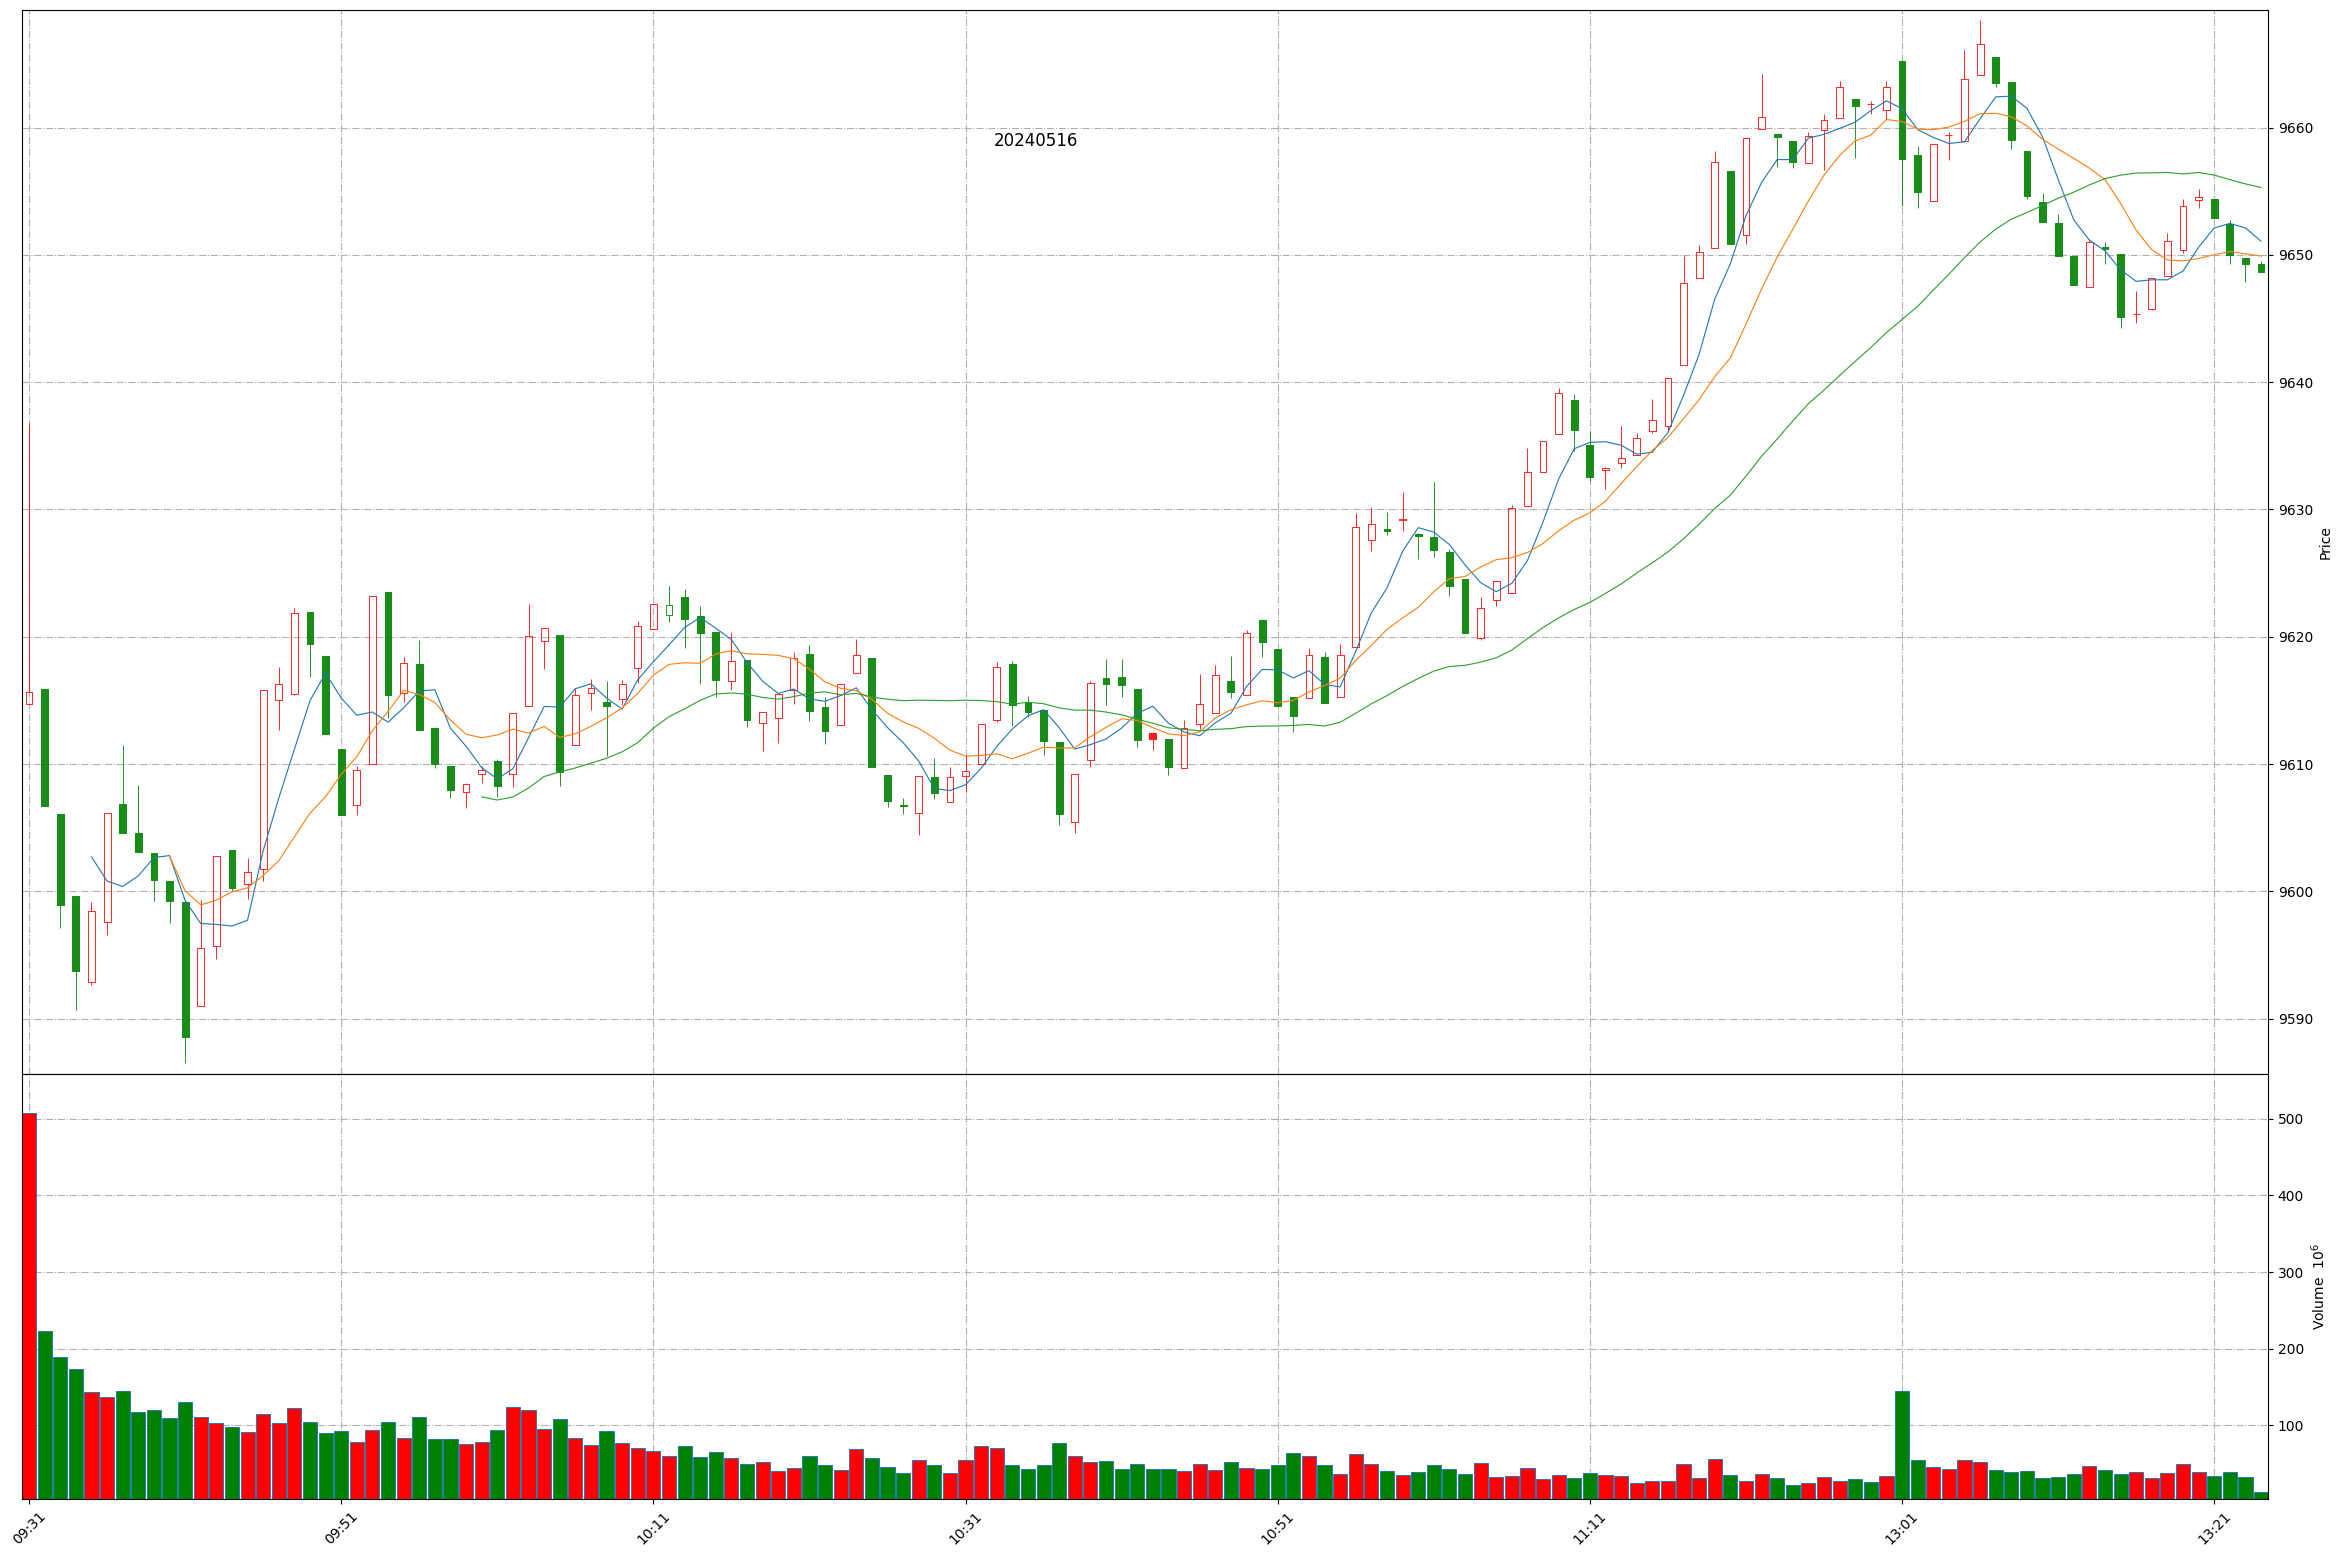
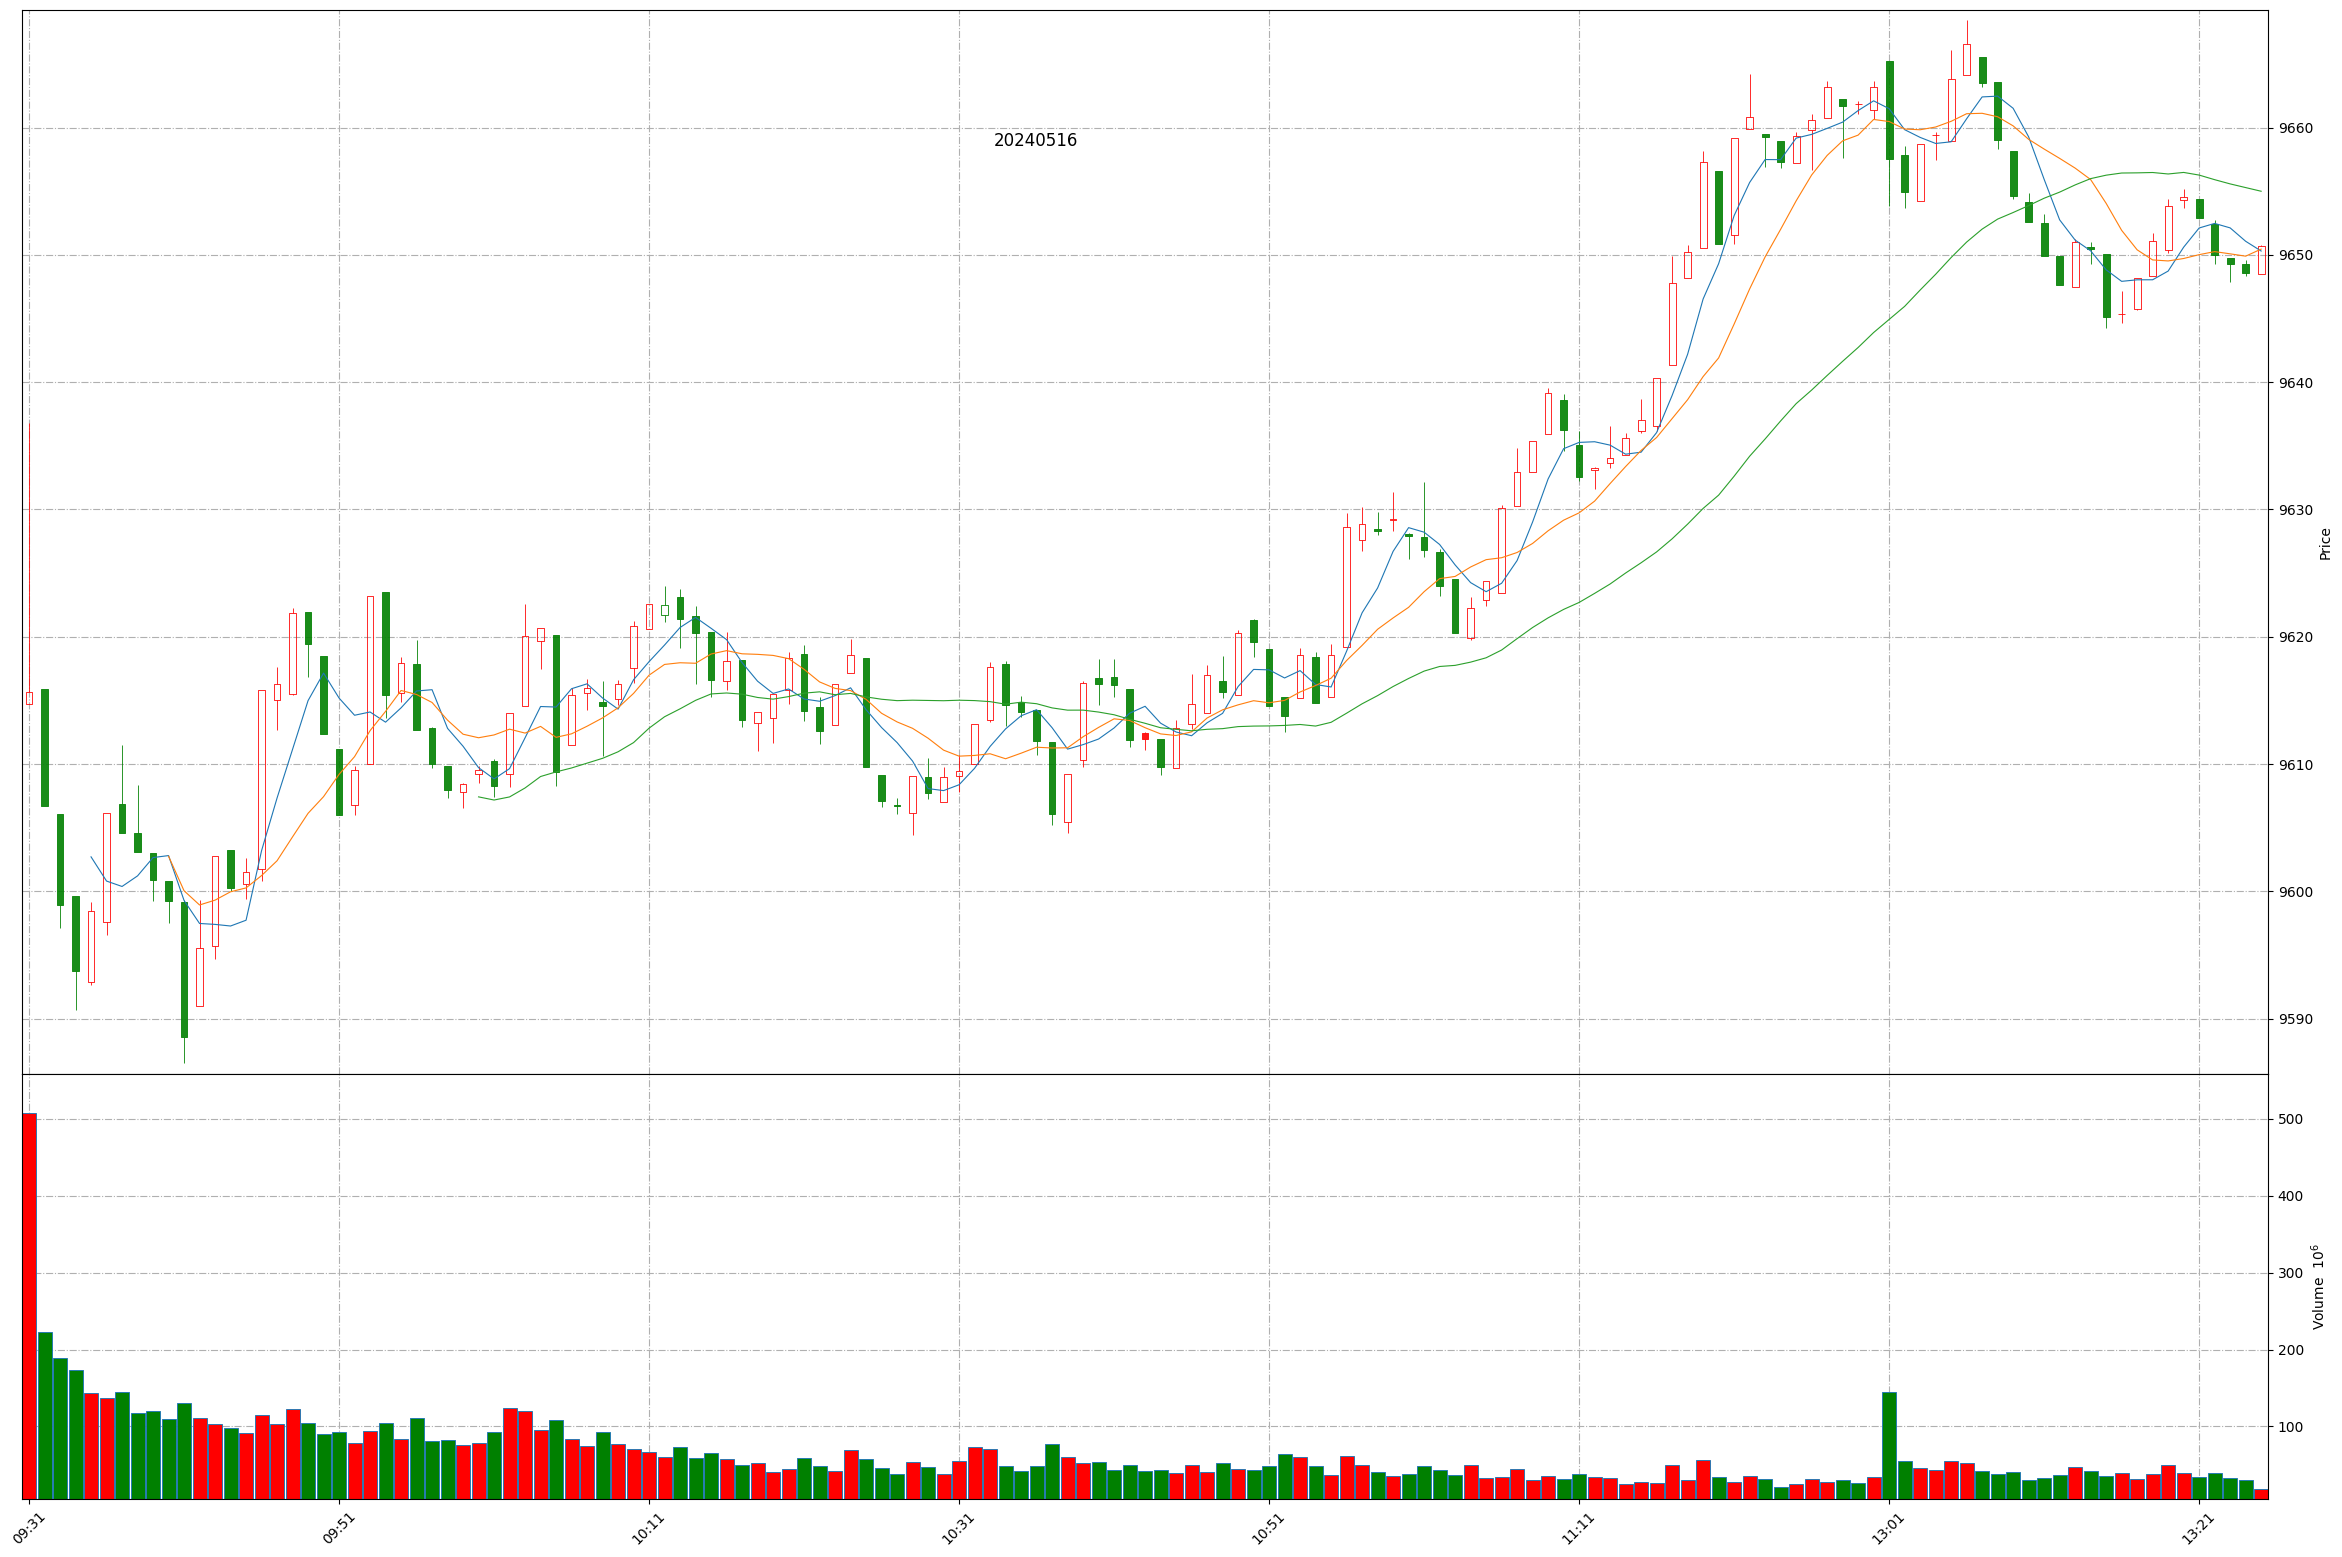
Github action update at 2024-05-16 13:24:47.

diff --git a/README.md b/README.md
@@ -1,11 +1,11 @@
 
 # Daily-A-share-market-quotes 每日 A 股指数（5min 更新）- 20240516
 
-### 上证指数 20240516 13:23
+### 上证指数 20240516 13:24
 ![](./fig/2024/5/20240516-sh000001.png)
 
-### 深证成指 20240516 13:23
+### 深证成指 20240516 13:24
 ![](./fig/2024/5/20240516-sz399001.png)
 
-### 北证50 20240516 13:23
+### 北证50 20240516 13:24
 ![](./fig/2024/5/20240516-bj899050.png)
